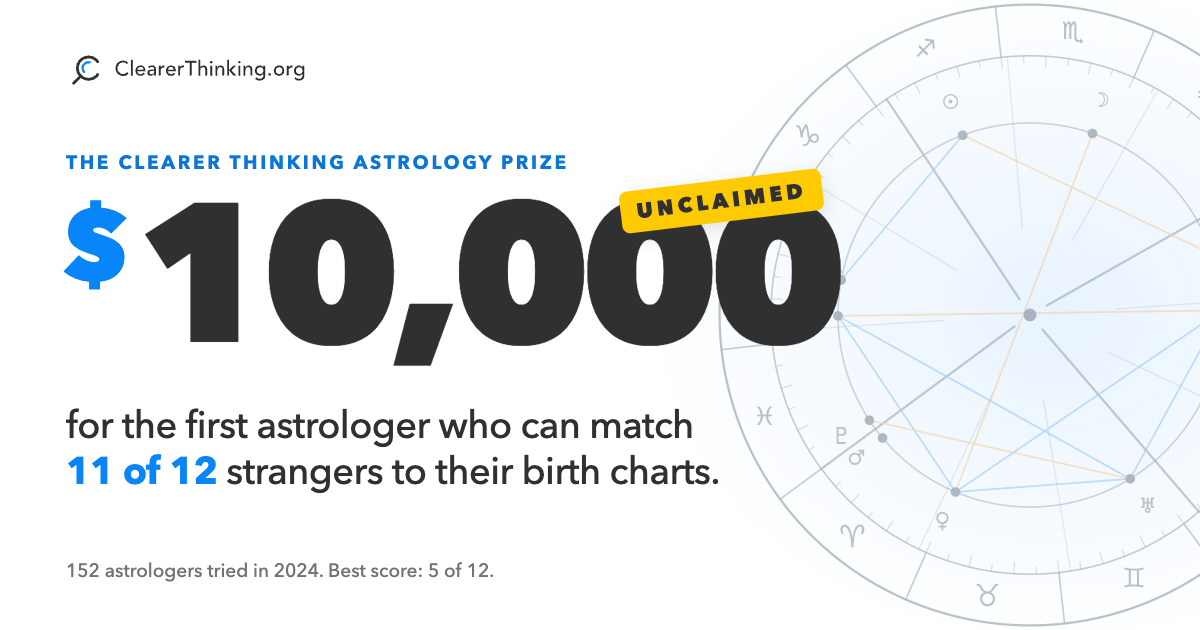
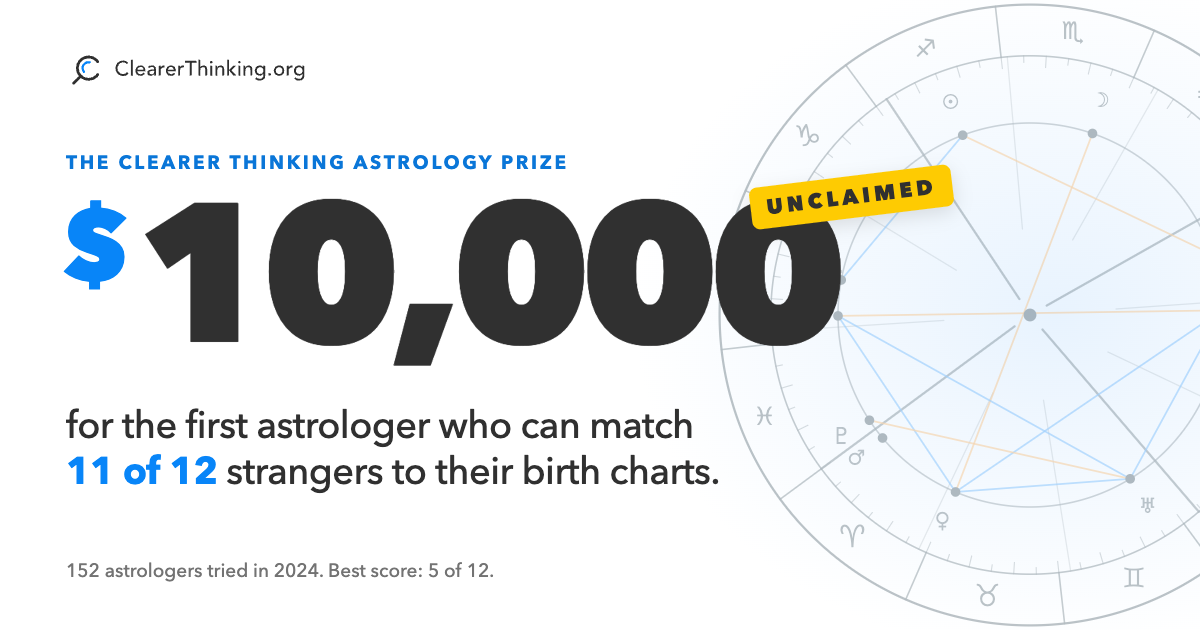
Astrology prize page: $10,000, CT brand (white, Avenir, main blue, orange and gold), scoreboard strip and blind-guess game removed
Igor's edits of Nov 10: prize cut from $100,000 to $10,000, hero fine print trimmed to "Free to enter.",
the 2024-numbers strip, the "Why we are doing this" kicker and the whole blind-luck game section removed,
and the look moved from the night-sky serif design to the Jan 2025 CT style guide. logic.js loses the game
functions (git history keeps them); og.png re-rendered on white.

Changed region(s): [[0.4933, 0.2413, 0.8017, 0.3921]]

diff --git a/landing_pages/astrology_prize/index.html b/landing_pages/astrology_prize/index.html
@@ -237,7 +237,7 @@
   .final-share { margin-top: clamp(44px, 6vw, 64px); }
   .final-share p { font-size: 13.5px; font-weight: 700; letter-spacing: 0.14em; text-transform: uppercase; color: var(--gold); margin-bottom: 16px; }
   .final-share .share-row { justify-content: center; }
-  .signup { margin: clamp(44px, 6vw, 64px) auto 0; max-width: 560px; padding: 28px; border: 1px solid rgba(255, 255, 255, 0.2); border-radius: 16px; background: rgba(255, 255, 255, 0.06); }
+  .signup { margin: clamp(44px, 6vw, 64px) auto 0; max-width: 560px; padding: 28px; border: 1px solid rgba(255, 255, 255, 0.2); border-radius: 16px; background: var(--dark-accent); }
   .signup h3 { font-size: 23px; }
   .signup > p { margin-top: 8px; font-size: 15.5px; color: rgba(255, 255, 255, 0.86); }
   .signup form { display: flex; gap: 10px; margin-top: 18px; }
@@ -256,7 +256,7 @@
 
   .dock { position: fixed; z-index: 20; left: 0; right: 0; bottom: 0; display: none; gap: 10px; padding: 10px 14px calc(10px + env(safe-area-inset-bottom)); background: rgba(255, 255, 255, 0.96); border-top: 1px solid var(--line); box-shadow: 0 -8px 24px rgba(48, 48, 48, 0.08); backdrop-filter: blur(8px); transform: translateY(110%); transition: transform 0.25s ease; }
   .dock.show { transform: none; }
-  .dock .btn { flex: 1; min-height: 48px; padding: 10px 14px; font-size: 16px; }
+  .dock .btn { flex: 1; min-height: 48px; padding: 10px 12px; font-size: 15px; white-space: nowrap; }
 
   @media (max-width: 900px) {
     .beats, .receipts, .steps, .record { grid-template-columns: 1fr; }

diff --git a/landing_pages/astrology_prize/og_card.html b/landing_pages/astrology_prize/og_card.html
@@ -21,7 +21,7 @@
   .kicker { position: absolute; left: 66px; top: 150px; font-weight: 700; font-size: 19px; letter-spacing: 0.14em; text-transform: uppercase; color: #0a76d8; }
   .amount { position: absolute; left: 60px; top: 190px; font-weight: 800; font-size: 196px; line-height: 0.92; letter-spacing: -0.045em; font-variant-numeric: lining-nums; white-space: nowrap; }
   .amount .cur { font-size: 0.52em; vertical-align: 0.6em; margin-right: 0.03em; color: #0885f8; letter-spacing: 0; }
-  .stamp { position: absolute; left: 560px; top: -10px; transform: rotate(-7deg); padding: 9px 16px 8px; border-radius: 8px; background: #fecb02; color: #303030; font-weight: 800; font-size: 21px; line-height: 1.2; letter-spacing: 0.2em; text-transform: uppercase; box-shadow: 0 6px 18px rgba(48, 48, 48, 0.14); }
+  .stamp { position: absolute; left: 690px; top: -14px; transform: rotate(-7deg); padding: 9px 16px 8px; border-radius: 8px; background: #fecb02; color: #303030; font-weight: 800; font-size: 21px; line-height: 1.2; letter-spacing: 0.2em; text-transform: uppercase; box-shadow: 0 6px 18px rgba(48, 48, 48, 0.14); }
   .sub { position: absolute; left: 66px; top: 404px; width: 730px; font-weight: 500; font-size: 38px; line-height: 1.2; letter-spacing: -0.015em; }
   .sub em { font-style: normal; font-weight: 700; color: #0885f8; white-space: nowrap; }
   .foot { position: absolute; left: 66px; bottom: 46px; font-weight: 500; font-size: 19px; color: #737373; }

diff --git a/CLAUDE.md b/CLAUDE.md
@@ -272,7 +272,7 @@ discussion of goals, targets or priorities: hitting those goals is Igor's 2026 p
   (~/Downloads). Its kit `scripts/ct_infographic.py` is the single source for the palette, title, logo footer and export; each
   graphic is a `reports/<slug>_<date>_src/build.py` that imports it (first one: the integrative-complexity staircase, landscape +
   square). `Branding assets/` (logo files, Jan 2025 style guide PDF) is gitignored, so the skill carries its own logo copy.
-- `landing_pages/astrology_prize/` (2026-11-06, DRAFT: prize, rules and URL not approved, nothing published): Randi-style publicity-stunt page, "$100,000 for the first astrologer who can match 11 of 12 strangers to their birth charts" (round two of the 2024 Astrology Challenge; the live 2024 test is programs.clearerthinking.org/astrology_challenge.html). `logic.js` is the single source for the prize, pass mark, 2024 study figures, odds, share links and the blind-guess game (`node --test landing_pages/astrology_prize/logic.test.js`); the copy in `index.html` is static and `tests/test_astrology_prize_lp.py` keeps it in step; `build_og.py` re-renders `og.png` from `og_card.html`. To launch: remove `class="is-draft"` and the noindex tag together, set the real URL in the canonical/og tags, connect the email form.
+- `landing_pages/astrology_prize/` (2026-11-06, DRAFT: prize, rules and URL not approved, nothing published): Randi-style publicity-stunt page in the CT brand (white, Avenir, main blue, orange and gold accents), "$10,000 for the first astrologer who can match 11 of 12 strangers to their birth charts" ($100,000 on Nov 6, cut to $10,000 by Igor on Nov 10, when he also had the scoreboard strip and the blind-guess game removed) (round two of the 2024 Astrology Challenge; the live 2024 test is programs.clearerthinking.org/astrology_challenge.html). `logic.js` is the single source for the prize, pass mark, 2024 study figures, odds, share links (`node --test landing_pages/astrology_prize/logic.test.js`); the copy in `index.html` is static and `tests/test_astrology_prize_lp.py` keeps it in step; `build_og.py` re-renders `og.png` from `og_card.html`. To launch: remove `class="is-draft"` and the noindex tag together, set the real URL in the canonical/og tags, connect the email form.
   IMPORTANT: CT has NOT debunked meditation. The 2022 Waking Up study was supportive (about 1 in 10 learned nondual mindfulness); the debunks are the two astrology studies (sun signs, Jan 2024; 152 astrologers, Aug 2024, best score 5 of 12, $1,000 prize unclaimed). The 2024 report's chance table has a typo (8 correct by luck is 0.05%, not 0.01%).
 - Reference docs: `GOALS.md`, `GA4_EVENTS.md`, `GUIDEDTRACK.md`, `CT_TOOLS.md`, `DEPLOY.md`.
 
